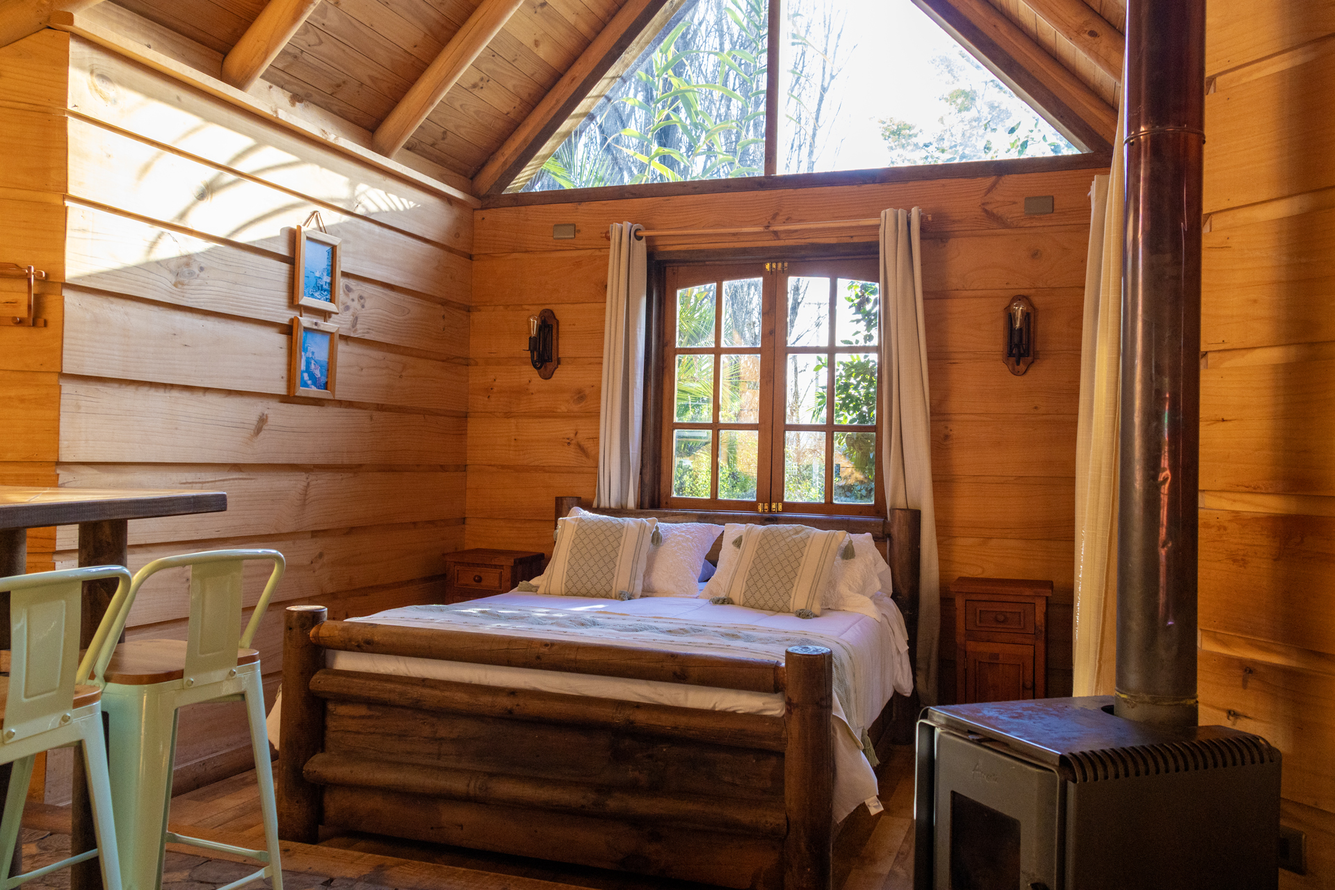
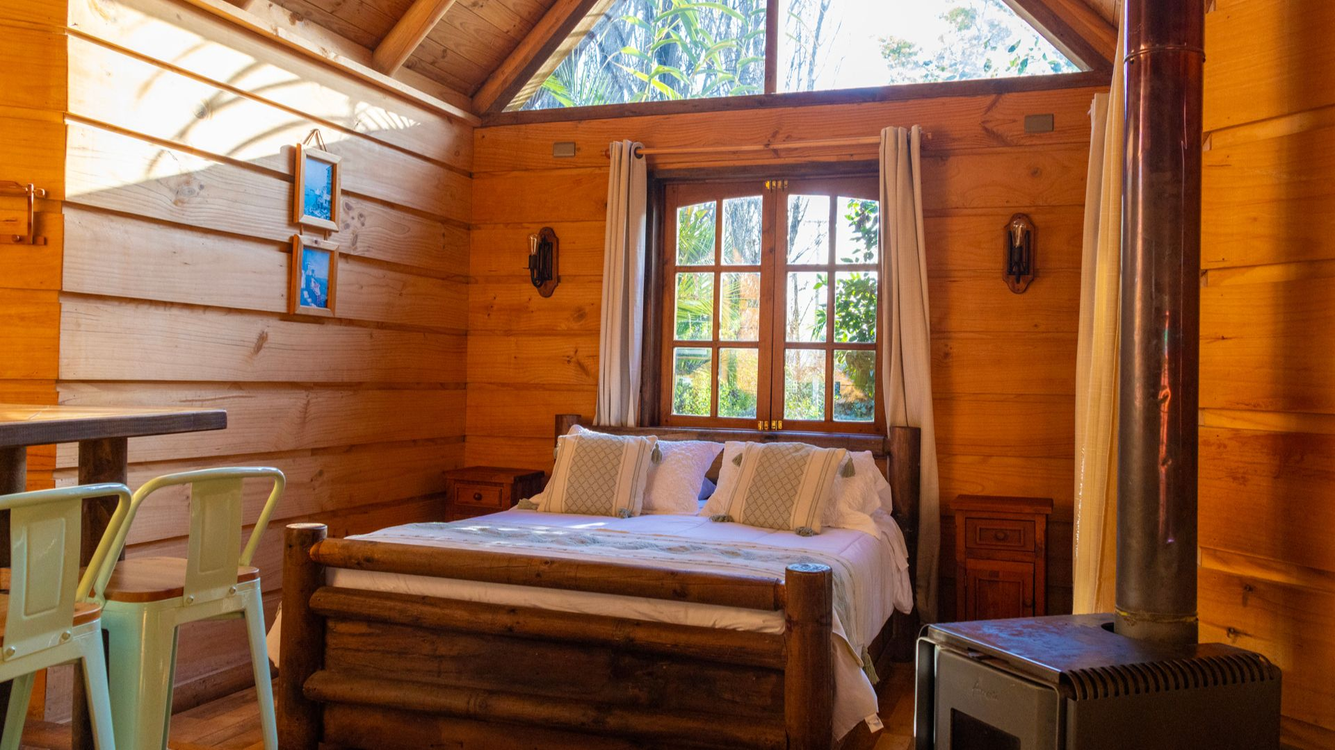
update matrimonios + mejoras UX

diff --git a/app/components/Footer.tsx b/app/components/Footer.tsx
@@ -1,68 +1,155 @@
+'use client';
+
 import Image from 'next/image';
-import { SocialLink } from './types';
+import Link from 'next/link';
+import { FaInstagram, FaFacebookF, FaTripadvisor, FaWhatsapp } from 'react-icons/fa';
 
-interface FooterProps {
-  logoUrl?: string;
-  logoAlt?: string;
-  tagline: string;
-  contactEmail: string;
-  socialLinks: SocialLink[];
-}
-
-export default function Footer({
-  logoUrl = 'https://i0.wp.com/valledelsolquillon.cl/wp-content/uploads/2024/08/Blanco-e1723074296739.png',
-  logoAlt = 'Valle del Sol Logo',
-  tagline,
-  contactEmail,
-  socialLinks,
-}: FooterProps) {
+export default function Footer() {
   return (
-    <footer className="bg-gray-900 text-white py-12">
-      <div className="container mx-auto px-4">
-        <div className="grid grid-cols-1 md:grid-cols-3 gap-8 mb-8">
-          {/* Logo and Tagline */}
+    <>
+      <footer className="bg-gray-900 text-white pt-16 pb-10 relative">
+
+        <div className="max-w-7xl mx-auto px-6 grid grid-cols-1 md:grid-cols-2 lg:grid-cols-4 gap-10">
+
+          {/* 🔥 COLUMNA 1 - LOGO */}
           <div>
             <Image
-              src={logoUrl}
-              alt={logoAlt}
-              width={107}
-              height={107}
+              src="https://i0.wp.com/valledelsolquillon.cl/wp-content/uploads/2024/08/Blanco-e1723074296739.png"
+              alt="Valle del Sol"
+              width={120}
+              height={120}
               className="mb-4"
             />
-            <p className="text-gray-400">{tagline}</p>
+            <p className="text-gray-400 leading-relaxed">
+              Vuelve a esos lugares donde fuiste feliz, vuelve a Valle del Sol.
+            </p>
           </div>
 
-          {/* Contact */}
+          {/* 🔥 COLUMNA 2 - CONTACTO */}
           <div>
-            <h3 className="text-xl font-bold mb-4">Contacto</h3>
-            <p className="text-gray-400">{contactEmail}</p>
+            <h3 className="text-lg font-semibold mb-4">Contacto</h3>
+
+            <p className="text-gray-400 mb-2">
+              Km. 1,5 Camino a Cerro Negro, Parcela 51, Quillón
+            </p>
+
+            <a
+              href="mailto:contacto@valledelsolquillon.cl"
+              className="text-gray-400 hover:text-white transition"
+            >
+              contacto@valledelsolquillon.cl
+            </a>
           </div>
 
-          {/* Social Links */}
+          {/* 🔥 COLUMNA 3 - MENÚ */}
           <div>
-            <h3 className="text-xl font-bold mb-4">Síguenos</h3>
-            <div className="flex space-x-4">
-              {socialLinks.map((link, index) => (
-                <a
-                  key={index}
-                  href={link.href}
-                  target="_blank"
-                  rel="noopener noreferrer"
-                  className="text-gray-400 hover:text-white transition-colors text-2xl"
-                  aria-label={link.name}
-                  title={link.name}
-                >
-                  {link.icon}
-                </a>
-              ))}
+            <h3 className="text-lg font-semibold mb-4">Menú</h3>
+
+            <ul className="space-y-2 text-gray-400">
+              <li><Link href="/cabanas" className="hover:text-white transition">Cabañas</Link></li>
+              <li><Link href="/restaurante" className="hover:text-white transition">Restaurante</Link></li>
+              <li><Link href="/matrimonios" className="hover:text-white transition">Matrimonios</Link></li>
+              <li><Link href="/colegios" className="hover:text-white transition">Colegios</Link></li>
+              <li><Link href="/empresas" className="hover:text-white transition">Empresas</Link></li>
+              <li><Link href="/tour-operadores" className="hover:text-white transition">Tour Operadores</Link></li>
+              <li><Link href="/nosotros" className="hover:text-white transition">Nosotros</Link></li>
+            </ul>
+          </div>
+
+          {/* 🔥 COLUMNA 4 - REDES */}
+          <div>
+            <h3 className="text-lg font-semibold mb-4">Síguenos</h3>
+
+            <div className="flex gap-4 text-xl">
+
+              <a
+                href="https://www.instagram.com/valledelsolquillon.cl/"
+                target="_blank"
+                className="text-gray-400 hover:text-white transition"
+              >
+                <FaInstagram />
+              </a>
+
+              <a
+                href="https://www.facebook.com/valledelsolquillon"
+                target="_blank"
+                className="text-gray-400 hover:text-white transition"
+              >
+                <FaFacebookF />
+              </a>
+
+              <a
+                href="https://www.tripadvisor.cl/Hotel_Review-g3732316-d7155218-Reviews-Centro_de_Eventos_Valle_del_Sol-Quillon_Biobio_Region.html"
+                target="_blank"
+                className="text-gray-400 hover:text-white transition"
+              >
+                <FaTripadvisor />
+              </a>
+
+              <a
+                href="https://wa.me/56926035311"
+                target="_blank"
+                className="text-gray-400 hover:text-green-400 transition"
+              >
+                <FaWhatsapp />
+              </a>
+
             </div>
           </div>
+
         </div>
 
-        <div className="border-t border-gray-800 pt-8 text-center text-gray-400">
-          <p>Hecho con ❤ por Valle del Sol</p>
+        {/* 🔥 COPYRIGHT */}
+        <div className="border-t border-gray-800 mt-12 pt-6 text-center text-gray-500 text-sm">
+          Todos los derechos reservados 2026. Hecho con ❤ por Valle del Sol
         </div>
-      </div>
-    </footer>
+
+      </footer>
+
+      {/* 🔥 BOTÓN FLOTANTE WHATSAPP */}
+      <a
+        href="https://wa.me/56926035311"
+        target="_blank"
+        rel="noopener noreferrer"
+        className="fixed bottom-6 right-6 z-50 group"
+      >
+        <div className="relative flex items-center">
+
+          {/* TEXTO HOVER */}
+          <span className="absolute right-16 opacity-0 group-hover:opacity-100 translate-x-2 group-hover:translate-x-0 transition-all duration-300 bg-black text-white text-xs px-3 py-2 rounded-lg whitespace-nowrap shadow-lg">
+            Cotiza por WhatsApp
+          </span>
+
+          {/* BOTÓN */}
+          <div className="w-14 h-14 bg-green-500 rounded-full flex items-center justify-center shadow-xl hover:bg-green-600 transition-all duration-300 animate-heartbeat">
+            <FaWhatsapp className="text-white text-2xl" />
+          </div>
+
+        </div>
+      </a>
+
+      {/* 🔥 ANIMACIÓN HEARTBEAT */}
+      <style jsx>{`
+        @keyframes heartbeat {
+          0%, 100% {
+            transform: scale(1);
+          }
+          25% {
+            transform: scale(1.08);
+          }
+          40% {
+            transform: scale(1);
+          }
+          60% {
+            transform: scale(1.12);
+          }
+        }
+
+        .animate-heartbeat {
+          animation: heartbeat 2s infinite;
+        }
+      `}</style>
+
+    </>
   );
 }

diff --git a/app/components/Experiences.tsx b/app/components/Experiences.tsx
@@ -8,31 +8,31 @@ const experiences = [
   {
     title: 'Cabañas',
     subtitle: 'Escápate a la serenidad',
-    image: '/images/experiencia/cabanas.jpeg',
+    image: '/images/experiencia/cabanas.jpg',
     href: '/cabanas',
   },
   {
     title: 'Restaurante',
     subtitle: 'Sabores que enamoran',
-    image: '/images/experiencia/restaurante.jpeg',
+    image: '/images/experiencia/restaurante.jpg',
     href: '/restaurante',
   },
   {
     title: 'Seminarios y Capacitaciones',
     subtitle: 'Eventos que conectan',
-    image: '/images/experiencia/seminarios.jpeg',
+    image: '/images/experiencia/seminarios.jpg',
     href: '/eventos',
   },
   {
     title: 'Empresas',
     subtitle: 'Experiencias corporativas a medida',
-    image: '/images/experiencia/empresas.jpg',
+    image: '/images/experiencia/empresa.jpg',
     href: '/empresas',
   },
   {
     title: 'Tour Operadores',
     subtitle: 'Programas diseñados para agencias',
-    image: '/images/experiencia/touroperadores.jpeg',
+    image: '/images/experiencia/tour-operadores.jpg',
     href: '/tour-operadores',
   },
 ];

diff --git a/app/components/ContactSection.tsx b/app/components/ContactSection.tsx
@@ -8,17 +8,17 @@ const slides = [
   {
     title: 'Convenios con empresas',
     text: 'Ofrecemos planes especiales para empresas que buscan entregar beneficios reales a sus colaboradores. Accede a tarifas preferenciales, experiencias personalizadas y un entorno ideal para el descanso.',
-    image: '/images/convenios.jpeg',
+    image: '/images/convenios.jpg',
   },
   {
     title: 'Programas para Tour Operadores',
     text: 'Trabajamos junto a tour operadores para crear experiencias únicas en Valle del Sol. Diseñamos programas flexibles, atractivos y con alto valor agregado.',
-    image: '/images/tour-operadores.jpeg',
+    image: '/images/tour-operadores.jpg',
   },
   {
     title: 'Beneficios para Colegios',
     text: 'Programas ideales para giras de estudio y actividades educativas en un entorno seguro, natural y enriquecedor.',
-    image: '/images/colegios.jpeg',
+    image: '/images/colegios.jpg',
   },
 ];
 

diff --git a/app/components/LocationSection.tsx b/app/components/LocationSection.tsx
@@ -9,7 +9,7 @@ export default function LocationSection() {
       {/* BACKGROUND PARALLAX */}
       <div className="absolute inset-0 -z-10">
         <img
-          src="/images/fondos/ubicacion.jpg"
+          src="/images/ubicacion.jpg"
           alt="Ubicación Valle del Sol"
           className="w-full h-[120%] object-cover parallax-bg"
         />

diff --git a/app/components/Booking.tsx b/app/components/Booking.tsx
@@ -10,7 +10,7 @@ export default function Booking() {
       {/* IMAGEN DE FONDO */}
       <div
         className="absolute inset-0 bg-cover bg-center"
-        style={{ backgroundImage: "url('/images/relajacion.jpeg')" }}
+        style={{ backgroundImage: "url('/images/relajacion.jpg')" }}
       />
 
       {/* OVERLAY */}

diff --git a/app/components/Hero.tsx b/app/components/Hero.tsx
@@ -68,7 +68,7 @@ export default function Hero({
 
           {/* Línea 2 */}
           <span className="block mt-2 font-bold">
-            LA MAGIA DE LA{" "}
+            La magia de la{" "}
             <span
               className={`inline-block transition-all duration-500 ${
                 isVisible

diff --git a/app/components/GalleryFilter.tsx b/app/components/GalleryFilter.tsx
@@ -24,7 +24,7 @@ const items = [
   },
   {
     title: 'COMIDA TÍPICA',
-    image: '/images/galeria/comida.jpeg',
+    image: '/images/galeria/comida.jpg',
     description:
       'DESCUBRE LA AUTÉNTICA GASTRONOMÍA CHILENA A TRAVÉS DE SUS PLATOS MÁS TRADICIONALES.',
   },
